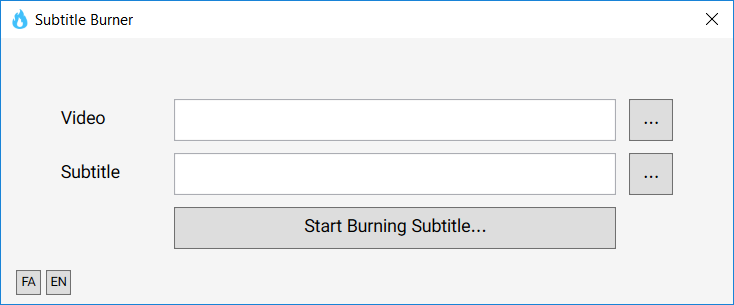
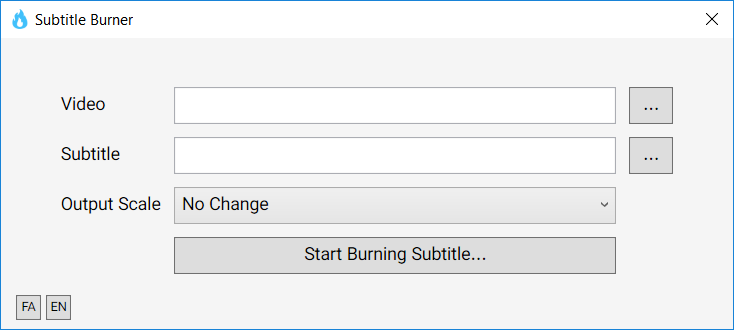
Added output scale capability

diff --git a/SubtitleBurner/MainWindow.xaml b/SubtitleBurner/MainWindow.xaml
@@ -8,7 +8,7 @@
         loc:Translation.ResourceManager="{x:Static resx:Resources.ResourceManager}"
         mc:Ignorable="d"
         Title="Subtitle Burner"
-        Height="250"
+        Height="270"
         Width="600"
         TextElement.FontFamily="{StaticResource Shabnam}"
         FontFamily="{StaticResource Shabnam}"
@@ -43,66 +43,96 @@
               Value="10" />
     </Style>
   </Window.Resources>
-  <StackPanel Margin="10,20,10,5" VerticalAlignment="Bottom">
-  <Grid Width="500"
-        Height="130"
-        Margin="0,0,0,10">
-    <Grid.RowDefinitions>
-      <RowDefinition />
-      <RowDefinition />
-      <RowDefinition />
+  <StackPanel Margin="10,20,10,5"
+              VerticalAlignment="Bottom">
+    <Grid Width="500"
+          Height="160"
+          Margin="0,0,0,10">
+      <Grid.RowDefinitions>
+        <RowDefinition />
+        <RowDefinition />
+        <RowDefinition />
+        <RowDefinition />
 
-    </Grid.RowDefinitions>
-    <Grid.ColumnDefinitions>
-      <ColumnDefinition Width="20*" />
-      <ColumnDefinition Width="80*" />
-      <ColumnDefinition Width="10*" />
-    </Grid.ColumnDefinitions>
-    <Label Content="{loc:Loc VideoLabel}"
-           VerticalAlignment="Center"
-           Grid.Row="0"
-           Grid.Column="0" />
-    <TextBox x:Name="txtVideo"
-             AllowDrop="True"
-             PreviewDragOver="Txt_PreviewDragOver"
-             PreviewDrop="Txt_PreviewDrop"
+      </Grid.RowDefinitions>
+      <Grid.ColumnDefinitions>
+        <ColumnDefinition Width="20*" />
+        <ColumnDefinition Width="80*" />
+        <ColumnDefinition Width="10*" />
+      </Grid.ColumnDefinitions>
+      <Label Content="{loc:Loc VideoLabel}"
+             VerticalAlignment="Center"
              Grid.Row="0"
-             Grid.Column="1" />
-    <Button x:Name="btnSelectVideo"
-            Content="..."
-            ToolTip="{loc:Loc VideoSelectToolTip}"
-            Click="BtnSelectVideo_Click"
-            Grid.Row="0"
-            Grid.Column="2" />
+             Grid.Column="0" />
+      <TextBox x:Name="txtVideo"
+               AllowDrop="True"
+               PreviewDragOver="Txt_PreviewDragOver"
+               PreviewDrop="Txt_PreviewDrop"
+               Grid.Row="0"
+               Grid.Column="1" />
+      <Button x:Name="btnSelectVideo"
+              Content="..."
+              ToolTip="{loc:Loc VideoSelectToolTip}"
+              Click="BtnSelectVideo_Click"
+              Grid.Row="0"
+              Grid.Column="2" />
 
-    <Label Content="{loc:Loc SubtitleLabel}"
-           VerticalAlignment="Center"
-           Grid.Row="1"
-           Grid.Column="0" />
-    <TextBox x:Name="txtSubtitle"
-             AllowDrop="True"
-             PreviewDragOver="Txt_PreviewDragOver"
-             PreviewDrop="Txt_PreviewDrop"             
+      <Label Content="{loc:Loc SubtitleLabel}"
+             VerticalAlignment="Center"
              Grid.Row="1"
-             Grid.Column="1" />
-    <Button x:Name="btnSelectSubtitle"
-            Content="..."
-            ToolTip="{loc:Loc SubtitleSelectToolTip}"
-            Click="BtnSelectSubtitle_Click"
-            Grid.Row="1"
-            Grid.Column="2" />
+             Grid.Column="0" />
+      <TextBox x:Name="txtSubtitle"
+               AllowDrop="True"
+               PreviewDragOver="Txt_PreviewDragOver"
+               PreviewDrop="Txt_PreviewDrop"
+               Grid.Row="1"
+               Grid.Column="1" />
+      <Button x:Name="btnSelectSubtitle"
+              Content="..."
+              ToolTip="{loc:Loc SubtitleSelectToolTip}"
+              Click="BtnSelectSubtitle_Click"
+              Grid.Row="1"
+              Grid.Column="2" />
 
-    <Button x:Name="btnMakeOutput"
-            Content="{loc:Loc BurnButtonCaption}"
-            Click="BtnMakeOutput_Click"
-            Grid.Row="2"
-            Grid.Column="1" />
+      <Label Content="{loc:Loc ScaleLabel}"
+             VerticalAlignment="Center"
+             Grid.Row="2"
+             Grid.Column="0" />
 
-  </Grid>
+      <ComboBox x:Name="comboScale"
+                Margin="5"
+                FlowDirection="LeftToRight"
+                VerticalContentAlignment="Center"
+                Grid.Row="2"
+                Grid.Column="1">
+        <ComboBoxItem IsSelected="True"
+                      Content="{loc:Loc NoChange}"></ComboBoxItem>
+        <ComboBoxItem>640:480 (SD fullscreen)</ComboBoxItem>
+        <ComboBoxItem>704:480 (SD anamorphic)</ComboBoxItem>
+        <ComboBoxItem>640:360 (SD widescreen)</ComboBoxItem>
+        <ComboBoxItem>704:396 (SD widescreen)</ComboBoxItem>
+        <ComboBoxItem>640:352 (SD widescreen MOD16)</ComboBoxItem>
+        <ComboBoxItem>704:400 (SD widescreen MOD16)</ComboBoxItem>
+        <ComboBoxItem>1280:720 (HD 720p)</ComboBoxItem>
+        <ComboBoxItem>1920:1080 (HD 1080p)</ComboBoxItem>
+        <ComboBoxItem>1024:576 (SuperPAL widescreen)</ComboBoxItem>
+      </ComboBox>
+
+      <Button x:Name="btnMakeOutput"
+              Content="{loc:Loc BurnButtonCaption}"
+              Click="BtnMakeOutput_Click"
+              Grid.Row="3"
+              Grid.Column="1" />
+
+    </Grid>
     <StackPanel Orientation="Horizontal">
-      <Button x:Name="BtnFaCulture" Click="BtnFaCulture_Click" Content="FA"
-              Style="{StaticResource languageButton}"/>
-      <Button x:Name="BtnEnCulture" Click="BtnEnCulture_Click" Content="EN"
+      <Button x:Name="BtnFaCulture"
+              Click="BtnFaCulture_Click"
+              Content="FA"
+              Style="{StaticResource languageButton}" />
+      <Button x:Name="BtnEnCulture"
+              Click="BtnEnCulture_Click"
+              Content="EN"
               Style="{StaticResource languageButton}" />
     </StackPanel>
   </StackPanel>

diff --git a/SubtitleBurner/Handlers/Burner.cs b/SubtitleBurner/Handlers/Burner.cs
@@ -1,4 +1,5 @@
-using System.Diagnostics;
+using System;
+using System.Diagnostics;
 using System.IO;
 using System.Reflection;
 using System.Windows;
@@ -7,9 +8,12 @@ namespace SubtitleBurner.Handlers
 {
   public class Burner
   {
-    public bool StartBurning(string video, string subtitle, out string output)
+    public bool StartBurning(string video,
+                             string subtitle,
+                             string scale,
+                             out string output)
     {
-      output = generateOutputFileName(video, subtitle);
+      output = generateOutputFileName(video, subtitle, scale);
       if (File.Exists(output))
       {
         if (MessageBox.Show(
@@ -26,26 +30,37 @@ namespace SubtitleBurner.Handlers
 
       var appPath = Path.GetDirectoryName(Assembly.GetExecutingAssembly().Location);
       var ffmpeg = Path.Combine(appPath, "ffmpeg") + "\\ffmpeg.exe";
-      var workingDir = Path.GetDirectoryName(subtitle);
-      var subtitleShortName = Utils.GetShortPath(subtitle);
-      var subtitleFileName = Path.GetFileName(subtitleShortName);
+      var workingDir = Path.GetDirectoryName(video);
+      var subtitleShortName = string.IsNullOrEmpty(subtitle) ? "" : Utils.GetShortPath(subtitle);
+      var subtitleFileName = string.IsNullOrEmpty(subtitle) ? "" : Path.GetFileName(subtitleShortName);
       var videoShortName = Utils.GetShortPath(video);
-
+      var arguments = generateArguments(videoShortName, subtitleFileName, scale, output);
       var p = new Process();
       p.StartInfo.WorkingDirectory = workingDir;
       p.StartInfo.FileName = ffmpeg;
-      p.StartInfo.Arguments = $"-i \"{videoShortName}\" -vf \"ass={subtitleFileName}\" \"{output}\"";
+      p.StartInfo.Arguments = arguments;
       p.Start();
       p.WaitForExit(); // or p.WaitForExit(Timeout-Period-In-Milliseconds);
       return p.ExitCode == 0;
     }
 
-    private string generateOutputFileName(string video, string subtitle)
+    private string generateArguments(string videoShortName, string subtitleFileName, string scale, string output)
+    {
+      return string.IsNullOrEmpty(scale)
+        ? $"-i \"{videoShortName}\" -vf subtitles=\"{subtitleFileName}\" \"{output}\""
+        : string.IsNullOrEmpty(subtitleFileName)
+          ? $"-i \"{videoShortName}\" -vf scale={scale} \"{output}\""
+          : $"-i \"{videoShortName}\" -vf \"subtitles={subtitleFileName}, scale={scale}\" \"{output}\"";
+    }
+
+    private string generateOutputFileName(string video, string subtitle, string scale)
     {
       var videoFileName = Path.GetFileNameWithoutExtension(video);
       var videoExt = Path.GetExtension(video);
-      var subtitleDir = Path.GetDirectoryName(subtitle);
-      var outputFileName = $"{videoFileName}_output{videoExt}";
+      var subtitleDir = Path.GetDirectoryName(video);
+      var outputFileName = string.IsNullOrEmpty(scale)
+        ? $"{videoFileName}_output{videoExt}"
+        : $"{videoFileName}_output_{scale.Replace(":", "x")}{videoExt}";
       return Path.Combine(subtitleDir, outputFileName);
     }
   }

diff --git a/SubtitleBurner/MainWindow.xaml.cs b/SubtitleBurner/MainWindow.xaml.cs
@@ -3,6 +3,7 @@ using System.Diagnostics;
 using System.Globalization;
 using System.IO;
 using System.Linq;
+using System.Text.RegularExpressions;
 using System.Windows;
 using System.Windows.Controls;
 using Microsoft.Win32;
@@ -59,14 +60,18 @@ namespace SubtitleBurner
 
       if (string.IsNullOrEmpty(txtSubtitle.Text))
       {
-        MessageBox.Show(Utils.GetResourceText("NoSubtitleWarning"), Utils.GetResourceText("WarningTitle"), MessageBoxButton.OK, MessageBoxImage.Warning);
-        return;
+        if (comboScale.SelectedIndex == 0)
+        {
+          MessageBox.Show(Utils.GetResourceText("NoSubtitleWarning"), Utils.GetResourceText("WarningTitle"), MessageBoxButton.OK, MessageBoxImage.Warning);
+          return;
+        }
       }
 
       var video = txtVideo.Text;
       var subtitle = txtSubtitle.Text;
+      var scale = extractScale(comboScale.Text);
       string output;
-      var result = new Burner().StartBurning(video, subtitle, out output);
+      var result = new Burner().StartBurning(video, subtitle, scale, out output);
       if (result)
       {
         MessageBox.Show(Utils.GetResourceText("CompletedMessage"), Utils.GetResourceText("InformationTitle"), MessageBoxButton.OK, MessageBoxImage.Information);
@@ -106,6 +111,12 @@ namespace SubtitleBurner
     {
       Process.Start(Application.ResourceAssembly.Location);
       Application.Current.Shutdown();
+    }
+
+    private string extractScale(string text)
+    {
+      var match = Regex.Match(text, @"^\d+:\d+", RegexOptions.IgnoreCase);
+      return match.Success ? match.Value : "";
     }
   }
 }

diff --git a/SubtitleBurner/Properties/Resources.Designer.cs b/SubtitleBurner/Properties/Resources.Designer.cs
@@ -106,6 +106,15 @@ namespace SubtitleBurner.Properties {
         }
         
         /// <summary>
+        ///   Looks up a localized string similar to No Change.
+        /// </summary>
+        public static string NoChange {
+            get {
+                return ResourceManager.GetString("NoChange", resourceCulture);
+            }
+        }
+        
+        /// <summary>
         ///   Looks up a localized string similar to Subtitle file is not selected.
         /// </summary>
         public static string NoSubtitleWarning {
@@ -138,6 +147,15 @@ namespace SubtitleBurner.Properties {
         public static string QuestionTitle {
             get {
                 return ResourceManager.GetString("QuestionTitle", resourceCulture);
+            }
+        }
+        
+        /// <summary>
+        ///   Looks up a localized string similar to Output Scale.
+        /// </summary>
+        public static string ScaleLabel {
+            get {
+                return ResourceManager.GetString("ScaleLabel", resourceCulture);
             }
         }
         

diff --git a/SubtitleBurner/Properties/AssemblyInfo.cs b/SubtitleBurner/Properties/AssemblyInfo.cs
@@ -51,5 +51,5 @@ using System.Windows;
 // You can specify all the values or you can default the Build and Revision Numbers
 // by using the '*' as shown below:
 // [assembly: AssemblyVersion("1.0.*")]
-[assembly: AssemblyVersion("1.0.0.0")]
-[assembly: AssemblyFileVersion("1.0.0.0")]
+[assembly: AssemblyVersion("1.1.0.0")]
+[assembly: AssemblyFileVersion("1.1.0.0")]
